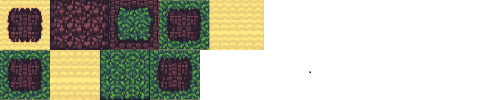
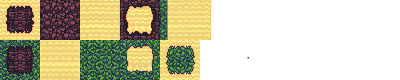
Tela arrumada

Changed region(s): [[0.0, 0.0, 0.54, 1.0]]

diff --git a/JavaApplication1/src/javaapplication1/JavaApplication1.java b/JavaApplication1/src/javaapplication1/JavaApplication1.java
@@ -203,7 +203,7 @@ public class JavaApplication1 {
             mapa.getMapa().get(i).setBloqueado(false);
             mapa.getMapa().get(i).setConstruivel(true);
         }
-        for (int i = 66; i < 324; i+=20) {
+        for (int i = 86; i < 344; i+=20) {
             mapa.getMapa().get(i).setBloqueado(false);
             mapa.getMapa().get(i).setConstruivel(true);
         }
@@ -223,8 +223,8 @@ public class JavaApplication1 {
     private static void tela_init() {      
         JFrame frame = new JFrame("Attack, Lord Willow!");
         DrawPanel panel = new DrawPanel();
-        frame.setSize(new Dimension(1000, 1000));
-        frame.setLocation(new Point(200,200));
+        frame.setSize(new Dimension(816, 838));
+        frame.setLocation(new Point(500,100));
         frame.setContentPane(panel);
         frame.setDefaultCloseOperation(JFrame.EXIT_ON_CLOSE);
         frame.setVisible(true);

diff --git a/JavaApplication1/src/javaapplication1/Engine.java b/JavaApplication1/src/javaapplication1/Engine.java
@@ -10,6 +10,6 @@ package javaapplication1;
  * @author PEDROKREIDABALA
  */
 public class Engine {
-    public static final int TILE_WIDTH = 50;
-    public static final int TILE_HEIGTH = 50;
+    public static final int TILE_WIDTH = 40;
+    public static final int TILE_HEIGTH = 40;
 }
